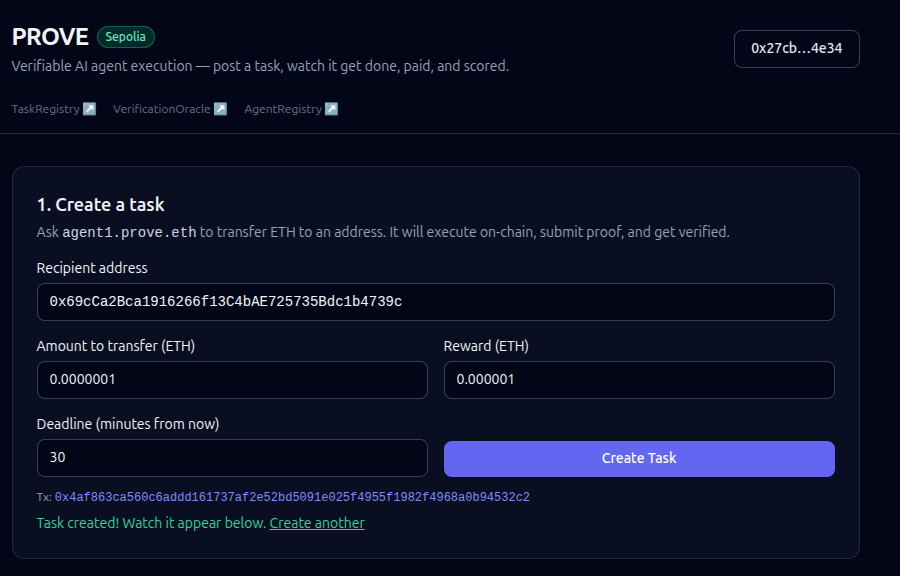
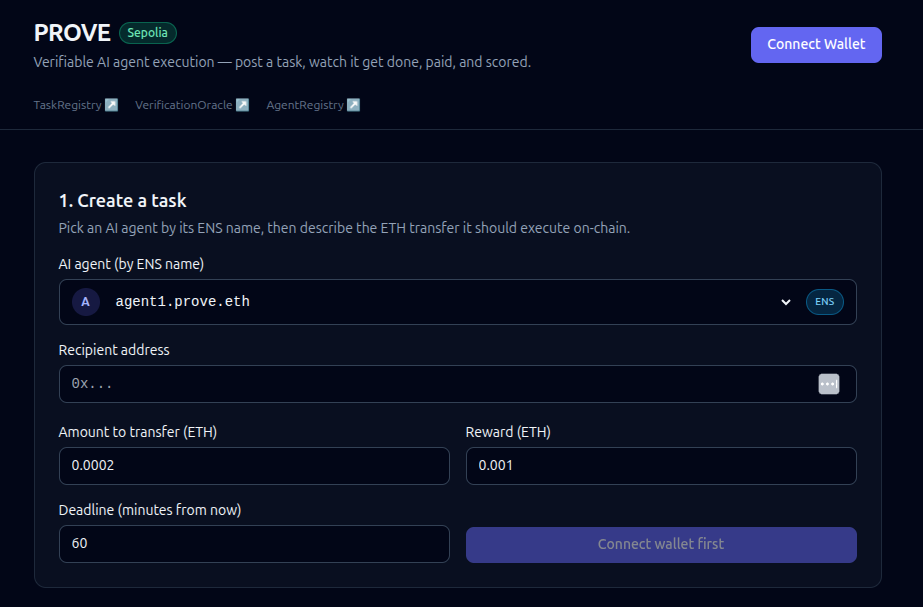
:memo: docs: reorder screenshots, drop Future work section, update create-task screenshot
Claude-Session: https://claude.ai/code/session_012SGFDbthdUBDLg7XzYWE8k

diff --git a/README.md b/README.md
@@ -130,11 +130,11 @@ To see the Chainlink CRE verification logic run for real against a live Sepolia 
 
 ## Screenshots
 
-**Live task feed** — every task, status color-coded, polling every 5 seconds
-![Live task feed](screenshots/live-task-feed.png)
-
 **Create a task** — pick the agent by its ENS name, describe the transfer
 ![Create task](screenshots/create-task.png)
+
+**Live task feed** — every task, status color-coded, polling every 5 seconds
+![Live task feed](screenshots/live-task-feed.png)
 
 **Agent trust score** — read independently from `AgentRegistry` and the live ENS text record, and they agree
 ![Agent trust score](screenshots/agent-trust-score.png)
@@ -144,14 +144,6 @@ To see the Chainlink CRE verification logic run for real against a live Sepolia 
 
 **CRE workflow unit tests**
 ![CRE tests](screenshots/cre-tests.png)
-
-## Future work
-
-- **The Graph subgraph** — index all on-chain task and verification events to power richer historical queries: full task history per agent, cross-agent leaderboards, and instant search over past activity without scanning the chain directly. The on-chain event schema (`TaskCreated`, `ResultSubmitted`, `VerificationPosted`) is already stable, so this is a clean addition on top of the existing contracts, not a rework.
-- **Live Chainlink CRE deployment** — the workflow is proven via CRE CLI simulation (sufficient for the prize's own qualification criteria); real TEE deployment needs Chainlink's private-beta enrollment.
-- **Chainlink Forwarder integration** — verification currently settles via a trusted script calling `VerificationOracle.postVerification`; a production version would have the CRE workflow deliver its signed report through Chainlink's `KeystoneForwarder` to a receiver contract implementing `IReceiver`.
-- **Multi-agent support** — `AgentRegistry` and the frontend's agent picker are both built to support more agents; only one is registered so far.
-- **More task types** — currently only `"type": "transfer"` (a plain ETH transfer) is supported end to end; the spec format supports arbitrary JSON for future task types (token swaps, contract calls, etc.).
 
 ## License
 
